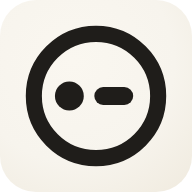
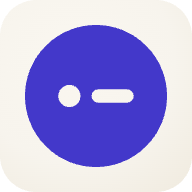
Batch 1 (2nd review) regressions + broken promises: UXP-121, 122, 123
First batch of the second (blind) seven-persona review, which audited the app
after UXP-102..120 shipped. These three are locked-Decision regressions or a
broken promised affordance.

UXP-121 (DL §2 regression): the UXP-108 zoom-title cap was em-against-17px and
unscoped for mobile, so in the @media(max-width:560px) block a child # heading
(1.5em ~25.5px) out-sized the 22px zoom-title again — the exact inversion
UXP-108 fixed, silently reintroduced at the breakpoint (a defect I shipped last
session; desktop-only verification hid it). Adds a mobile step: h1 -> 1.15em
(~19.5px)/opsz 40, h2 -> 1.1em/opsz 22, both under the 22px title. Verified at
narrow width: titleOutranksH1 true.

UXP-122 (DL §1 regression): icon.svg (source of the installed-app PNGs) drew a
hollow ink ring instead of the canonical solid accent disc with point+line
knocked out that the favicon/wordmark/updateFavicon all render. Rebuilt icon.svg
to the one canonical evenodd compound path in indigo on the maskable paper tile,
and regenerated icon-192/512.png from it. All four mark homes now match; the
knockouts read cleanly at full size.

UXP-123 (P4/docs): the oracle-play walkthrough's three deep-guide cross-links
all 404. Fixed the anchors to the real headings, derived with GitHub's slug
algorithm (not hand-typed) and verified to resolve.

760 tests pass; the two regressions verified in-browser.

diff --git a/index.html b/index.html
@@ -1410,6 +1410,13 @@ body{padding-top:calc(44px + env(safe-area-inset-top))}
   #outline{padding:20px 14px 140px}
   .crumb{max-width:120px}
   .zoom-title{--zoom-title-size:22px}
+  /* UXP-121: the zoom-title drops to 22px here, but the body.zoomed heading cap is em-against-17px
+     (h1 1.5em ~25.5px) and unscoped for mobile, so a `# child` out-sizes the title again — the
+     DL §2 inversion reintroduced at this breakpoint. Step the zoomed headings down to sit under
+     the 22px title (h1 1.15em ~19.5px / opsz 40, h2 1.1em ~18.7px), h1>h2 preserved. Do NOT raise
+     the title (DL §2 forbids it; fitZoomTitle only shrinks). */
+  body.zoomed .node-content h1.md-h{font-size:1.15em;font-variation-settings:'opsz' 40}
+  body.zoomed .node-content h2.md-h{font-size:1.1em;font-variation-settings:'opsz' 22}
   /* keep floating menus inside the viewport */
   #slash-menu{width:min(204px,calc(100vw - 16px))}
   #bpop{min-width:0;width:min(248px,calc(100vw - 16px))}

diff --git a/guidance/ux-remediation.md b/guidance/ux-remediation.md
@@ -1016,6 +1016,141 @@ A group of copy/labeling fixes around save, backup, and browser tiers (no new do
 
 ---
 
+### Second seven-persona design review (2026-07-02, blind re-audit) — UXP-121…144
+
+A second seven-persona review fleet audited the app **after** UXP-102…120 shipped, run **blind** (no knowledge of the prior review, and told not to mine this ledger) so it would find the next layer rather than re-litigate. 32 raw findings → adversarially verified → **21 confirmed** (2 more downgraded to low doc-nits; 11 refuted, including the whole UX-persona batch, which kept rediscovering already-shipped doors and the sanctioned UXP-63 body-click carve-out). The blind pass earned its keep twice: it caught a **regression I shipped** (UXP-121, the mobile half of UXP-108) and graded my own Batch-4 work (UXP-123/124). Entries carry a **[Batch N]** tag matching the closing order at the end. Verify every named symbol with grep before acting.
+
+### UXP-121 ◐ Mobile zoom re-inverts: a child `# heading` out-sizes the zoom-title (DL §2 regression) 🔴  [Batch 1] (RESOLVED pending merge)
+- **Problem:** UXP-108 caps zoomed descendant headings via `body.zoomed .node-content h1.md-h{1.5em}` (em-against-17px, unscoped for mobile), but in the `@media(max-width:560px)` block the `.zoom-title` drops to 22px while the child `# heading` stays 1.5em ≈ 25.5px at the same opsz 60 — 3.5px larger, the exact inversion DL §2 forbids, silently reintroduced at the breakpoint. `fitZoomTitle` only shrinks, so it can't recover. Desktop-only verification hid it (the miss that let it ship). (The blind reviewer estimated 768px; the actual mobile zoom-title breakpoint is 560px.)
+- **Rule:** DL §2 (the zoomed title outranks an inline heading), reintroduced UXP-108 regression.
+- **Resolved:** added to the existing `@media(max-width:560px)` block: `body.zoomed .node-content h1.md-h{font-size:1.15em;font-variation-settings:'opsz' 40}` (≈19.5px) and `h2.md-h{font-size:1.1em;font-variation-settings:'opsz' 22}` (≈18.7px) — both under the 22px title, h1>h2 preserved. Title not raised (DL §2). Verified per §6 with a narrow-width display shot: title 22px, child h1 ~19.5px, `titleOutranksH1: true`.
+
+### UXP-122 ◐ PWA install icon draws a different mark than the favicon/wordmark (DL §1 regression) 🔴  [Batch 1] (RESOLVED pending merge)
+- **Problem:** DL §1 locks "the mark and favicon must never diverge, change both in the same commit or neither." The three in-app homes (`.logo-mark`, `#favicon`, `updateFavicon`) render one compound evenodd path (solid accent disc with point+line knocked out). But `icon.svg` — the source of `icon-192/512.png`, the **installed-app** icon — drew a hollow stroked ring in fixed ink `#1f1d1a`, never the accent (its own comment admitted the fork).
+- **Rule:** DL §1 (mark and favicon never diverge).
+- **Resolved:** rebuilt `icon.svg` to use the ONE canonical compound path (the same `M256 512A256…` evenodd `d` as the favicon/`.logo-mark`/`updateFavicon`) filled indigo `#4338ca`, scaled 0.74 on the maskable warm-paper tile — so all four homes now draw the identical silhouette. Regenerated `icon-192.png`/`icon-512.png` from it (canvas Path2D render, the CLAUDE.md workflow). Verified the knockouts read cleanly at full size (screenshot: accent disc with the point + line as paper voids); the "fails at 48px" worry was unfounded.
+
+### UXP-123 ◐ The oracle-play walkthrough's three "see the full rules" links all 404 (P4/docs) 🔴  [Batch 1] (RESOLVED pending merge)
+- **Problem:** `guide/solo-rpg/oracle-play/oracle-play.md` (shipped in the prior review's Batch 4) had every deep-guide cross-link broken: lines 12 and 48 pointed at `generating-text.md#dynamic-odds`, and line 54 at `#name-generators` — neither slug exists.
+- **Rule:** P4 (a promised affordance must work); the `guide/` cross-link contract (slugs are the contract).
+- **Resolved:** fixed all three anchors to the real headings, **derived programmatically** with GitHub's own slug algorithm (not hand-typed — that was the error class): `#dynamic-odds`→`#when-the-odds-depend-on-something-dynamic-odds` (lines 12, 48) and `#name-generators`→`#name-things-youll-reuse-rules` (line 54, "the name-generator two-rule pattern" → the rules mechanism heading). Both slugs verified to resolve against `generating-text.md`'s actual headings.
+
+### UXP-124 ☐ Swing oracle's flat weight-1 twists ignore the likelihood band (P1) 🟡  [Batch 2]
+- **Problem:** `oracleSwingBody(yesW,noW)` (shipped in the prior review, UXP-111) keeps the four twist arms at flat weight 1, so at "Certain" the No-family totals ~12.5% and a full-reversal "No, and" comes up as often as plain No — the band label no longer means what it means on the plain oracle (P1). The shipped demo hand-tuned a better body, proving the dialog default is the weak version; the in-code comment ("dominant weight 5") is stale.
+- **Rule:** P1 (a band label means the same thing on the plain and swing oracle).
+- **Target:** derive each side's three arms as fractions of that side's band weight (e.g. plain ~70%, and/but ~15% each), rounded to a small integer with a **minimum of 1** so a swing oracle still swings on the weak side. The Yes:No family split then tracks the plain oracle at every band. Fix the stale comment in the same change. No new syntax (same `Yes N | No M` weighted grammar). Re-pin `oracleSwingBody` tests.
+
+### UXP-125 ☐ The concept guide has no keyboard shortcut or persistent affordance (P2, ux.md floor) 🔴  [Batch 3]
+- **Problem:** `ux.md` commits that the complete reference be reachable from every mode via a keyboard shortcut and a small persistent affordance. Today `openGuide` is a File-menu row + a footer button inside the shortcuts panel, so you must open a menu first, and the intuitive `?` gesture lands on the keyboard cheat-sheet (`toggleShortcuts`), not the feature reference.
+- **Rule:** P2 (a capability's front door; the ux.md "floor under the dial" commitment).
+- **Target:** add a direct chord (`Ctrl/⌘+Shift+/` — the "bigger help," mirrors the shortcuts key; NOT `Shift+?` which is already `?`), gated to not fire while typing, calling `openGuide`. Add a small persistent affordance (may be verbosity-gated, "Discoverable ≠ loud"). Document the chord in the §3 grammar + the `?` panel so it self-documents.
+
+### UXP-126 ☐ First-open has no first-run experience beyond one placeholder line (P2) 🟡  [Batch 3]
+- **Problem:** on cold open a newcomer sees one empty bullet and three sigils (the UXP-104 placeholder) they have no reason to trust; every distinguishing capability (pills) is invisible until they type a sigil. The doors exist (`btn-guide`, the `?` panel) but neither surfaces a live example at the empty-canvas moment.
+- **Rule:** P2 (surface the teaching at the moment of need). NOTE: this is "surface an existing door / show a live example at first open," not "the app teaches nothing."
+- **Target:** open a read-only, clearly-labeled **Examples** doc showing a handful of live pills (a dice roll, a `{grammar}` pick, a `{= math}` line, a linked point, a dated task) with a "Start a blank outline" button, reachable afterward from the File menu / Concept guide. Author the demo pills as plain `{…}` source (they promote via `promoteLoadedShorthand` in `adoptDoc`, like the solo-rpg demos). **Gate on a genuinely-fresh boot** (no `AUTOSAVE_KEY`, not `loadedFromEmbed`, no workspace) — do NOT gate on a "Guided verbosity" dial (that dial is not built). No em dashes.
+
+### UXP-127 ☐ Single-file tier has no reopen-last-file and misreports "saved" state (P4) 🟡  [Batch 3]
+- **Problem:** the `fileHandle` (File → Open) path persists no handle — only `WORKSPACE_KEY`/`OPEN_TABS_KEY` are in IndexedDB — so a user editing `outline.opml` across sessions boots the localStorage copy with no memory of which disk file it was. Worse: `applyAutosaveData` restores `fileName` but not the handle, so `updateFmStatus` prints "All changes saved" under the real filename against an **unbound** handle, and Ctrl+S falls through `saveFile` (handle null) into a fresh Save-As. The workspace tier solved exactly this; the single-file tier (more browsers than folders) was left without it.
+- **Rule:** P4 (don't claim "saved" when there is no write target; don't silently redirect Ctrl+S).
+- **Target:** persist the last single-file `FileSystemFileHandle` in IndexedDB (same mechanism workspaces use) and offer a one-click "Reopen `<name>`" on boot via `queryPermission`/`requestPermission` (mirror `showReconnectBanner`). **At minimum**, correct `updateFmStatus` to distinguish "named but unbound" ("Reopen `<name>` to save back to it") instead of claiming saved. Feature-gate on `hasFSA`.
+
+### UXP-128 ☐ Installable PWA has no in-app install affordance (P2, low) 🟢  [Batch 3]
+- **Problem:** the manifest declares `display:standalone` with maskable icons, so install is an intended touchpoint, yet `registerPWA` registers only the SW — the only door on Chromium is the address-bar icon most users miss. For an offline-first "keep it on my machine" tool that's a soft handoff.
+- **Rule:** P2 (an intended touchpoint has no visible door).
+- **Target:** capture `beforeinstallprompt`, show a small dismissible "Install Pointliner" control (near the File menu) calling `prompt()` on click; listen for `appinstalled` + check `matchMedia('(display-mode: standalone)')` at boot to never show it once installed; null the saved event after `prompt()` (single-use). A real `<button>` is fine here (not caret-bound), keyboard-operable + aria-labeled, design tokens only. Guard inert/silent like `registerPWA` so `file://` copies are byte-for-byte unaffected. No em dash.
+
+### UXP-129 ☐ Agenda Actions row collapses NEXT (do-now) and WAITING (blocked) into one pile (P1) 🟡  [Batch 4]
+- **Problem:** `collectActions` (shipped UXP-112) gathers undated to-dos and orders live-then-done, but never captures the state keyword, so `#WAITING` (blocked) sits undifferentiated among `#NEXT`/`#TODO` in a row labeled "Actions." A GTD user must mentally filter blocked items every scan.
+- **Rule:** P1 (a state keyword reads the same everywhere).
+- **Target:** thread the leading keyword into the item, render `#WAITING` points with a distinct muted "Waiting" badge (reuse `.ag-badge`; the WAITING icon already exists) and sort them after live NEXT/TODO. Keep it narrow to the built-in WAITING keyword; do NOT invent a general "states after the first active one" blocked notion (the model carries only active-vs-done via `doneFrom`).
+
+### UXP-130 ☐ No unified overdue axis; start-only slips are invisible to search (P2) 🟡  [Batch 4]
+- **Problem:** `due:overdue` matches only a `due` prop `< today`; a started-but-undeadlined point (start prop, no due) hits `if(!prop) return false` and returns nothing, reading as "nothing overdue" when a two-week-old started task sits right there. The agenda shows these (Running row) but there's no queryable twin and no single overdue axis spanning both keys.
+- **Rule:** P2/P5-4 (a new value in the `is:` family, the `is:failing`/`is:scheduled` precedent). Not new syntax.
+- **Target:** add `is:overdue` to the `is:` family: matches `(due<today || (no due && start<today)) && !done`, done-ness seq-aware via `todoDoneFromText(node.text, seqs)` (not `node.checked`). Leave the existing `due:overdue`/`start:overdue` untouched. Add the legend + `?`-panel + `guide/features.md` rows (the drift guard requires it). Pin tests.
+
+### UXP-131 ☐ `key:value` search can't match a spaced value (P2) 🟡  [Batch 4]
+- **Problem:** properties are the planner metadata layer (`owner:zeo`), but the value side is one word/hyphen token, so `owner:Jane Doe`, `area:Home Renovation`, `context:@errands` are storable (free-text input) yet unsearchable. Verified: the top-level tokenizer splits `owner:"Jane Doe"` on the interior space before any arm sees it. (`has:owner` still surfaces the point, so not invisible, only not value-filterable — supports medium.)
+- **Rule:** P2 (a storable value should be filterable). Zero new syntax (reuse the existing `"…"` phrase quoting).
+- **Target:** teach the top-level lexer to keep `key:"…"`/`key:'…'` as one token (reuse the phrase-quote convention), then add a prop arm that strips quotes and switches the compare to **contains** (matching the text-term spirit); this also fixes the `@errands` leading-sigil case. Update the search legend + `?`-panel + properties concept-guide entry. Pin the lexer + match tests.
+
+### UXP-132 ☐ Agenda has no sort/group control beyond date (P2, low-end medium) 🟡  [Batch 4]
+- **Problem:** `collectDueDates` hard-sorts epochDay-then-priority, so an `[#A]` due in three days always sorts below a no-priority item due tomorrow, with no toggle for a priority-first view. Achievable via search on the outline, but not from inside the agenda strip.
+- **Rule:** P2 (a reasonable view the feature that owns the job can't produce).
+- **Target:** add a "Sort" segmented control (Date · Priority) beside the existing chips, built with `mkAgToggle`, persisted like `agendaShowRunning`, re-sorting the same rows (a comparator swap). Optionally a free-text focus reusing `parseSearchQuery`/`queryMatchesNode` against the collected items (zero new syntax). Ship always-visible (no verbosity dial exists).
+
+### UXP-133 ☐ Bulk action bar lacks Refile (P1) 🟢  [Batch 4]
+- **Problem:** `#node-sel-bar` covers copy/indent/outdent/state/dates/check/props/type/delete but NOT Refile, so after a brain-dump you must refile each subtree one at a time. The infrastructure exists (`buildTreePicker` is reusable; the per-point dialogs accept a `targets[]` list).
+- **Rule:** P1 (refile should behave the same for one or many).
+- **Target:** add a "Refile" button to `#node-sel-bar` opening `buildTreePicker` once, applying `refileNodeTo` across the selected roots. The **top-most-subtrees-only dedupe is REQUIRED** (add a `selectionRoots()` helper: drop any selected node with a selected ancestor via `parentMap`) — `refileNodeTo`'s `isDescOf` guard covers filing-into-a-member but not overlapping roots. One summarizing toast.
+
+### UXP-134 ☐ `fa-left-right` carries three unrelated meanings (width, estimate, refile) (DL §1 corollary) 🟡  [Batch 2]
+- **Problem:** DL §1 corollary: refile moved to `fa-arrow-right-arrow-left`, leaving `fa-left-right` for horizontal-span only. Today the glyph is worn by width (the sanctioned use), the whole estimate family, AND the Refile picker header (even though every other refile surface already uses `fa-arrow-right-arrow-left`). The migration was left half-done and estimate additionally claimed the width glyph.
+- **Rule:** DL §1 corollary (one glyph, one concept).
+- **Target:** (1) **Refile — ship immediately:** change the Refile picker header `fa` class to `fa-arrow-right-arrow-left` (the `fb` is already `⇄`; one-token regression fix). (2) **Estimate — deliberate design change:** give uncertainty its own tilde/wave glyph (the `≈`/`∿` fallbacks already point at that identity) via the FA subset-rebuild workflow (`FA_GLYPHS` + `::before` + woff2 re-subset), then swap all five estimate references off `fa-left-right`, leaving it for width alone.
+
+### UXP-135 ☐ `.sh-saved-title` eyebrow omits `font-weight` (DL §4) 🟢  [Batch 2]
+- **Problem:** DL §4 locks the eyebrow as one recipe: 10px / 600 / .07em caps in `--muted`. `.sh-saved-title` (the "Saved" / "Found in other documents" search-panel labels) sets 10px, uppercase, .06em, `--muted` but NO font-weight, inheriting body 400 — so these read thinner than every sibling eyebrow in the same session.
+- **Rule:** DL §4 (one eyebrow recipe).
+- **Target:** add `font-weight:600` (the load-bearing fix); optionally bump `.06em`→`.07em` to match exactly.
+
+### UXP-136 ☐ Insert-dialog `.io-chip:hover` uses the reserved commit fill (DL §4) 🟢  [Batch 2]
+- **Problem:** the insert-dialog syntax-example chips light to a full `--acc` fill on hover — the treatment reserved for the dialog's actual commit button (`.io-btn.primary`). Hover-transient, so a hover-language coherence drift, not "two loud things"; the sibling `.io-seg-btn.on` already uses a 16% tint, making the chip the outlier.
+- **Rule:** DL §4 (solid accent fill reserved for the primary commit action; active/hover states use the tint recipe).
+- **Target:** match the shipped pill hover recipe: `border-color:var(--acc)` + `background:color-mix(in srgb,var(--acc) 6%,var(--cbg))`; drop `color:var(--acc-fg)` (near-invisible without the fill). Leaves one persistent loud object per dialog.
+
+### UXP-137 ☐ No way to freeze a rolled pill to plain text (P2/product, solo) 🟡  [Batch 5]
+- **Problem:** the lonelog guide sells the pill's freeze as "an honest record … only changes if you deliberately click to re-roll," but the whole journal is clickable live pills and a display-mode mis-tap re-rolls a committed beat (Undo helps only if noticed). The only escape is a full export that flattens everything.
+- **Rule:** P2/product (a missing affordance; the harm is silent-noticed-late mutation, recoverable via `pushUndo`, so medium not P4).
+- **Target:** add a per-pill "Freeze to text" action (new `collectPillActions` row + bullet-menu entry). Do NOT call `flattenArtifacts` for one pill (it's a whole-string regex over ALL tokens). Factor a shared `frozenTokenText(type,key,node,varMap)` (dice `${expr} = ${total}`, markov `path.join(' → ')`, grammar `g.result`, est `formatDist`, var `formatVarValue`) so callers stay in lockstep (P1); splice just that `[[type:key]]` occurrence and drop the matching sidecar via `pruneXxx`. Wrap in `pushUndo`, `announce()` it (P4), handle the edit-mode unfold/refold buffer. No new syntax.
+
+### UXP-138 ☐ A spent `once` deck pops as if it drew (P4) 🟢  [Batch 5]
+- **Problem:** clicking an exhausted `once` deck is a dead event (`nextSeqIndex` returns -1, result stays `''`, repaints to muted `—`) yet still runs `pushUndo()`+`markDirty()` and re-adds `.gr-rolled`, firing the celebratory `roll-pop` on a non-event while title/aria still read "Click to advance." A `shuffle` deck gets a courteous reshuffle flash; `once` gets a false-positive flourish.
+- **Rule:** P4 (feedback fires on a non-event).
+- **Target:** gate on `g.mode==='once' && (g.pos||0) >= g.items.length` (do NOT include `stopping` — it never returns -1 and its repeat can be a real re-roll). In that case skip `pushUndo`/`markDirty`, don't add `.gr-rolled`, and branch verb/title/aria on the existing `ended` flag so it reads "Deck spent" not "Click to advance." A one-time `flashHint('Deck spent')` is fine. Leave `shuffle` and all real draws untouched.
+
+### UXP-139 ☐ A natural max die roll looks like any other number (experience polish) 🟢  [Batch 5]
+- **Problem:** the RPG-soul "click a pill, get a surprise" moment goes unmarked: a natural max face renders as bare `escHtml(String(...))`, indistinguishable from a 3. The engine values valence everywhere else (Fate colors, exploding chains, reroll strikes) but single-die extremes stay flat. Polish opportunity, not a conformance defect (the standard requires no crit marking and demands identity stay "at whisper level, never candy").
+- **Rule:** product/experience (optional; must clear the DoD gate and the whisper-level rule).
+- **Target:** IF pursued, a display-only class on the max face — but do NOT reuse `.dice-hit`'s accent-700 (that means a counted pool success and `.dice-total` owns it; one glyph, three meanings breaks DL §1). Give max its own whisper cue (accent ink at normal weight, or an accent underline). Key it on whether ANY face in the chain hit `p.sides` (an exploding die's last face is never the max, so `chain[len-1]===p.sides` silently never fires). Decoration, not information.
+
+### UXP-140 ☐ The yes/no oracle answer has no valence (experience polish) 🟢  [Batch 5]
+- **Problem:** "Yes," "No," "Yes, and," "No, but" all render identical neutral `.gr-result`, so the most "ask the universe" beat lands as data. Self-declared optional; a recorded non-fix is acceptable.
+- **Rule:** product/experience (optional).
+- **Target:** IF pursued, do it at the oracle door ONLY (a dedicated variant class on the anon oracle roll, never a content-sniff in `renderGrammarPill`). Use the §4 badge recipe as a BACKGROUND tint (`color-mix(--ok 16%)` for leading-Yes, `--muted` for leading-No) while the result INK stays full-contrast `--fg` (the verdict is load-bearing, must clear 4.5:1). Prefer `--muted` over `--warn` for No (a No is not an error).
+
+### UXP-141 ☐ A `shuffle` deck nested in a rule silently degrades to a stateless pick (P1, doc-only) 🟢  [Batch 5]
+- **Problem:** the oracle-play meaning-table section recommends a deck for draw-without-repeats, but folding `{shuffle:…}` into a named rule (`meaning: {shuffle: …} {subject}`) quietly makes it a uniform pick — repeats return with no signal that the no-repeat guarantee dropped. No shipped guide teaches the broken pattern (so low), but the recommendation invites it.
+- **Rule:** P1 (a construct's guarantee changes by context invisibly).
+- **Target (doc-only):** one line in `oracle-play.md` and `generating-text.md` noting a deck draws without repeats only as its own standalone pill; nested in a rule it becomes an ordinary pick. Do NOT add detection in `classifyBraceBody`/`parseRules` (they lack the nesting context, which only exists at expansion) — a persistent marker would inject non-content into a valid draw.
+
+### UXP-142 ☐ No in-app acknowledgement that tasks don't recur (P2, expectations copy) 🟢  [Batch 5]
+- **Problem:** the agenda GUIDE explains the no-reminders limit, but neither it nor the `dates` entry says a completed dated task stays put and tasks don't roll forward, so a user infers "the agenda is my planning home" then discovers recurrence must be hand-recreated with no hint. (The full `repeat`-property build stays a `backlog.md` feature needing P5 sign-off; the confirmable defect here is the missing sentence.)
+- **Rule:** P2 (set honest expectations).
+- **Target:** add one honest AP-style line to the `dates` and/or `agenda` GUIDE body: a completed dated point stays in place and tasks do not repeat automatically yet. No em dashes.
+
+### UXP-143 ☐ Keyboard state-cycle to done gives no "now hidden" notice the mouse paths give (P1, low) 🟢  [Batch 5]
+- **Problem:** (Downgraded from the blind review's medium — the stated "silent disappearance on blur" mechanism is false: the keyboard cycle repaints in place and does NOT `render()`, so the row stays visible until a later unrelated full render; the chord's P4 duty is met via the `#a11y-live` announce.) The residual real issue: the `Ctrl/⌘+Shift+S` cycle branch never calls `flashHiddenIfDone`, while all three mouse/menu commit paths do — an inconsistency in the "done, now hidden" cue.
+- **Rule:** P1 (mouse and keyboard commit paths give different feedback).
+- **Target:** unify at `exitEdit`, not the keystroke: fire the "Done, now hidden" notice when a just-committed done row will actually be hidden by the next render, covering all commit paths — do NOT bolt `flashHiddenIfDone` onto the transient cycle keystroke (it would over-notify every time the user cycles PAST done while still editing a visible point, a P4 over-notification).
+
+### UXP-144 ☐ `Alt+1–9` doc-tab jump is absent from the §3 keyboard-grammar table (§3 completeness, low) 🟢  [Batch 5]
+- **Problem:** (Downgraded — the blind review wrongly said it's absent from the `?` panel; it IS there (`file-tab-n` essential entry), and P5-4 is authoring-syntax-only so it doesn't bind a navigation accelerator.) The residual real gap: the §3 keyboard-grammar table lists the sibling `Ctrl/⌘+Shift+]`/`[` tab-cycle but omits bare `Alt+1–9`.
+- **Rule:** §3 keyboard-grammar table completeness (not P5-4).
+- **Target:** add an `Alt+1–9` row to the §3 table beside the tab-cycle line. Separately, the P1 observation that `Alt` is elsewhere the point-movement modifier (so `Alt+digit` overloads it onto navigation) is an **owner grammar decision** — flag it, do NOT change the binding without sign-off.
+
+### Recommended closing order (2026-07-02 blind re-audit, UXP-121…144)
+1. **Batch 1 — regressions + broken promises (UXP-121, 122, 123).** Two locked-Decision 🔴 regressions (mobile zoom inversion — a defect shipped in the prior review's Batch 3 — and the PWA icon divergence) plus the dead oracle-play links. Do first: they break a locked Decision or a promised affordance. Verify the mobile zoom per §6 with narrow-width shots (the discipline that would have caught it).
+2. **Batch 2 — glyph + visual coherence + the swing fix (UXP-124, 134, 135, 136).** The stale swing-oracle weighting (P1, my Batch-4 code), the fa-left-right refile half (one-token fix) + estimate glyph (subset rebuild), the eyebrow weight, the io-chip hover. All small; the estimate glyph needs the FA subset workflow.
+3. **Batch 3 — discoverability + durability (UXP-125, 126, 127, 128).** The concept-guide shortcut+affordance (🔴), the first-run Examples doc, the single-file reopen/misreport fix, the PWA install affordance. The heaviest batch (new surfaces + IndexedDB handle persistence).
+4. **Batch 4 — planner surface (UXP-129, 130, 131, 132, 133).** Agenda NEXT/WAITING split, `is:overdue`, spaced `key:value` search, agenda sort, bulk Refile. All reuse existing engines (the `is:` family, the search lexer, `mkAgToggle`, `buildTreePicker`). Pure cores → pin → wire.
+5. **Batch 5 — solo/experience polish + copy (UXP-137, 138, 139, 140, 141, 142, 143, 144).** Freeze-to-text, the spent-deck pop, crit/oracle valence (both optional), the shuffle-in-rule + recurrence copy, and the two downgraded UX doc-nits. Lowest urgency; several are opt-in or doc-only.
+
+> **Feature request (NOT conformance, already in `backlog.md`):** the "random point / random child draw" (a `{…}` reference that resolves against a scope of the outline — a `#tag` or subtree) surfaced again as the solo-RPG thread/NPC-table gap. It is a genuinely new semantic (a grammar reference reaching live tree content outside its own body), needs owner sign-off, and is NOT a UXP. The blind reviewer agreed it is not the highest-leverage gap (discoverability is). Left in `backlog.md`.
+
+---
+
 ## Tier 3 — Accessibility conformance (additive; sequenced in `accessibility.md`)
 
 These are **not new tickets** — they are the standard's P3 requirements mapped onto the existing accessibility phases, listed here so a11y is visible as part of the *one* conformance picture rather than a separate track. **Do not front-run the deferred items**; do satisfy the interim labels now.

diff --git a/guide/solo-rpg/oracle-play/oracle-play.md b/guide/solo-rpg/oracle-play/oracle-play.md
@@ -9,7 +9,7 @@ the *engine* underneath it, the loop most solo-RPG systems share:
 4. Keep a short list of open threads and pull one to feature next.
 
 Everything here is built from pills you already have. Nothing is a new syntax; a couple of the
-pieces reuse the same [dynamic-odds trick](../../generating-text.md#dynamic-odds) the generative
+pieces reuse the same [dynamic-odds trick](../../generating-text.md#when-the-odds-depend-on-something-dynamic-odds) the generative
 guide already teaches, so this walkthrough points at that rather than repeating it.
 
 Open [oracle-play-demo.opml](oracle-play-demo.opml) (File menu, Open) to get all of this in front
@@ -45,13 +45,13 @@ chaos = 3                        (a variable, 1 = calm … 5 = chaos)
 
 The `{= chaos}` weight is read at roll time, so raising `chaos` to 5 makes "interrupted" more
 likely without editing the roll. That weight-is-an-expression move is the
-[dynamic-odds](../../generating-text.md#dynamic-odds) pattern; see there for the full rules. Nudge
+[dynamic-odds](../../generating-text.md#when-the-odds-depend-on-something-dynamic-odds) pattern; see there for the full rules. Nudge
 `chaos` up when a scene ends badly and down when you get a firm grip on the situation.
 
 ## Meaning tables (two words for a spark)
 
 When the oracle says "yes, and" but you do not yet know *what*, pull two words. A meaning table is
-just the [name-generator two-rule pattern](../../generating-text.md#name-generators) wearing the
+just the [name-generator two-rule pattern](../../generating-text.md#name-things-youll-reuse-rules) wearing the
 name you know it by:
 
 ```
